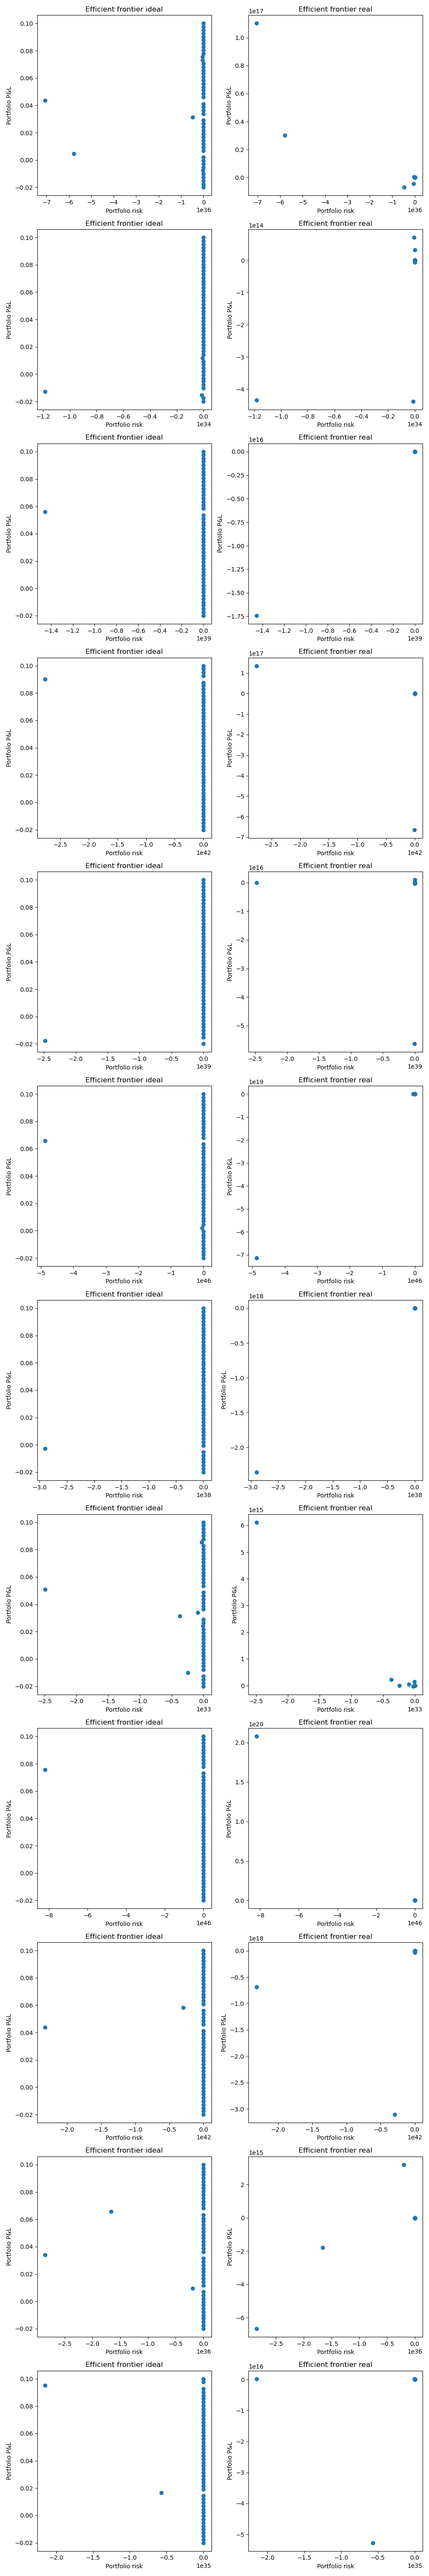
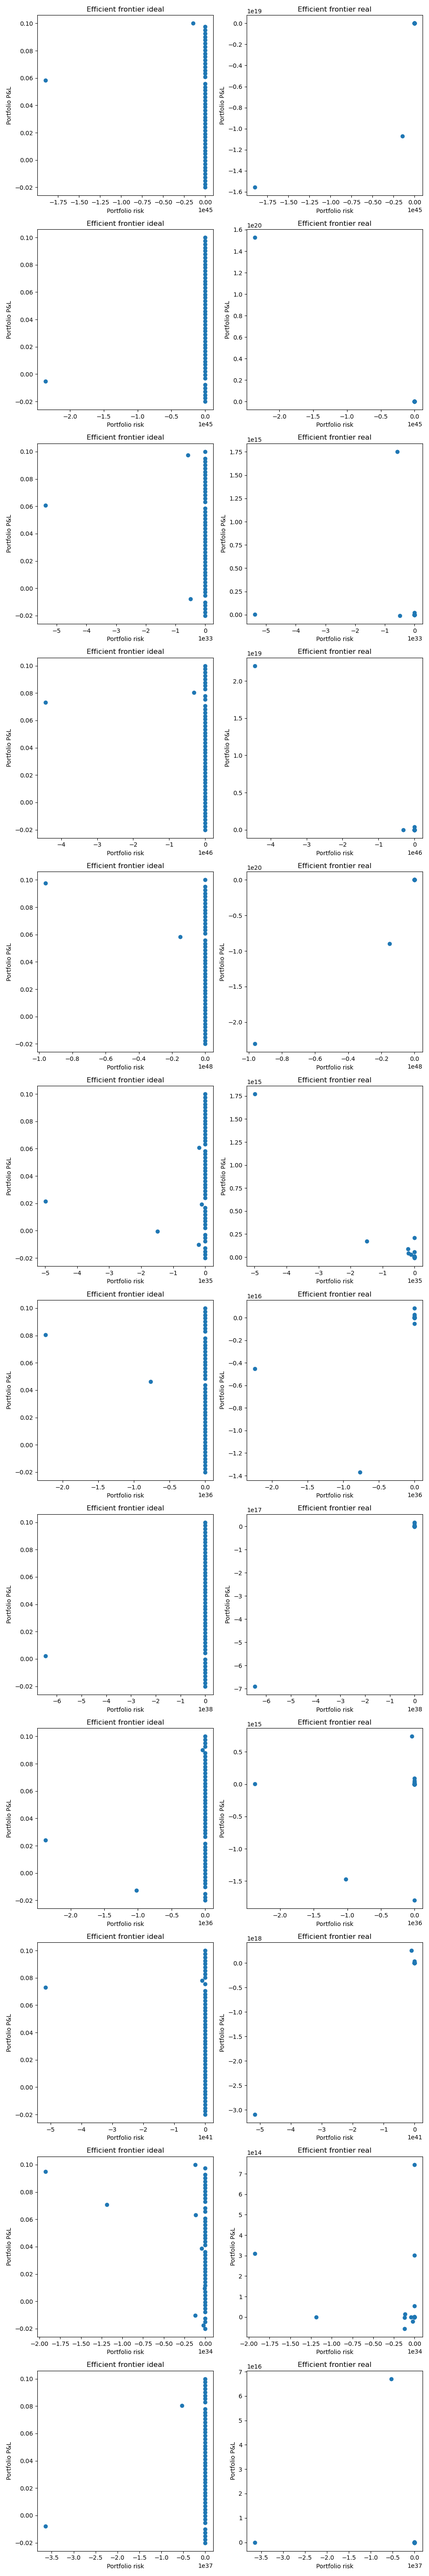
implement shuffle softmax and optimise with it

diff --git a/optimisation/src/signature_trading.py b/optimisation/src/signature_trading.py
@@ -5,10 +5,14 @@ import sympy as sym
 import mogptk
 import torch
 from .transformations import *
-
+from copy import copy, deepcopy
+import time
 from .free_lie_algebra import *
 from .optimisation.signature import *
 from .helper_functions.signature_helper_functions import get_signature_weights, shift, get_signature_values
+
+from tqdm import tqdm
+get_weights_ell = copy(get_weights)
 
 # The signature trading part is from Zacharia Issa. Please see the `mean-variacne.ipynb` file for detailed explanation.
 # This module merges the code into several classes and also integrate the Gaussian Process with Zach's code.
@@ -64,16 +68,57 @@ class _transformation:
 
         self.f = lambda x: shift(x, dim, int(_transformations["LeadLag"] + _transformations["HoffLeadLag"]), int(_transformations["AddTime"]))
 
+
+def shuffle_power(ell, power):
+    """
+    Shuffle product of a linear functional with itself power times
+
+    :param ell:     Linear functional
+    :param power:   Power to shuffle to
+    :return:        Shuffled linear functional
+    """
+    res = deepcopy(ell)
+    for _ in range(power - 1):
+        # print(type(res))
+        res = shuffleProduct(res, ell)
+    return res
+
+def shuffle_softmax(ells, truncate=5):
+    """
+    Shuffle product of a linear functional with itself truncated times
+
+    :param ell:     Linear functional
+    :param truncate: Number of times to shuffle
+    :return:        Shuffled linear functional
+    """
+    if isinstance(ells, list):
+        ells_ = []
+        for ell in ells:
+            res = ell
+            for i in range(2, truncate + 1):
+                # print(type(res))
+                res += shuffle_power(res, i) *(1/np.math.factorial(i))
+            ells_.append(res)
+        return ells_
+    else:
+        res = ells
+        for i in range(2, truncate + 1):
+            # print(type(res))
+            res += shuffle_power(res, i) *(1/np.math.factorial(i))
+        return res
+
+
 class _pre_get_funcs:
-    def __init__(self,dim,n_terms,ell_coeffs):
+    def __init__(self,dim,n_terms,ell_coeffs, default_truncate):
         self.dim = dim
         self.n_terms = n_terms
         self.ell_coeffs = ell_coeffs
+        self.truncate = default_truncate
 
     # Set the various functions used in the optimisation
     def set_signature_variance_func(self,ells, esig, shift):
         # Lambdify optimising functional
-        variance_polynomial_ = portfolio_variance(ells, esig, shift)
+        variance_polynomial_ = portfolio_variance(shuffle_softmax(ells, self.truncate), esig, shift)
         variance_polynomial  = sym.lambdify([self.ell_coeffs], variance_polynomial_)
 
         @wrapper_factory(N_assets=self.dim, n_terms=self.n_terms)
@@ -84,7 +129,7 @@ class _pre_get_funcs:
 
     def set_signature_return_func(self,ells, esig, shift):
 
-        return_polynomial_ = portfolio_return(ells, esig, shift)
+        return_polynomial_ = portfolio_return(shuffle_softmax(ells, self.truncate), esig, shift)
         return_polynomial  = sym.lambdify([self.ell_coeffs], return_polynomial_)
 
         @wrapper_factory(N_assets=self.dim, n_terms=self.n_terms)
@@ -95,7 +140,7 @@ class _pre_get_funcs:
 
     def set_signature_weight_sum_func(self,ells, esig):
 
-        weight_sum_polynomial_= sum_weights(ells, esig)
+        weight_sum_polynomial_= sum_weights(shuffle_softmax(ells, self.truncate), esig)
         weight_sum_polynomial = sym.lambdify([self.ell_coeffs], weight_sum_polynomial_)
 
         @wrapper_factory(N_assets=self.dim, n_terms=self.n_terms)
@@ -106,7 +151,7 @@ class _pre_get_funcs:
 
     def set_signature_individual_weight_func(self,ells, esig):
         # Individual weight constraints are a little tougher, we need to extract each \ell_i
-        individual_weights_polynomial_ = get_weights(ells, esig)
+        individual_weights_polynomial_ = get_weights(shuffle_softmax(ells, self.truncate), esig)
         individual_weights_polynomial  = sym.lambdify([self.ell_coeffs], individual_weights_polynomial_)
 
         @wrapper_factory(N_assets=self.dim, n_terms=self.n_terms)
@@ -114,11 +159,23 @@ class _pre_get_funcs:
             return individual_weights_polynomial(a)
 
         return individual_weights_function
+    
+
 
 class _get_funcs:
-    def __init__(self,dim,level,ES_computer,transformation=None,*o,**kwarg):
+    def __init__(self,dim,level,ES_computer,truncate,transformation=None,*o,**kwarg):
         ell_coeffs  = [make_ell_coeffs(dim, level, "^" + str(i+1)) for i in range(dim)]
+        # print([i * c for i,c in enumerate(ell_coeffs)])
+        # print(ell_coeffs[0])
         ells        = [make_linear_functional(ell_coeff, dim, level) for ell_coeff in ell_coeffs]
+        # print(ells[0])
+        print("@@@@@@@@@@@@@@@@@@@@@@@@@@@@@@@@@@@@@")
+        # print(ells[0], type(ells[0]))
+        # shuf = shuffleProduct(ells[0], ells[0])
+        # print(shuf, type(shuf))
+        # print(shuf*(.5))
+        # print("@@@@@@@@@@@@@@@@@@@@@@@@@@@@@@@@@@@@@")
+        # ells = [shuffle_softmax(ell, 2) for ell in tqdm(ells)]
         self.n_terms     = len(ell_coeffs[0])
         self.transformation = transformation
         if transformation:
@@ -127,14 +184,18 @@ class _get_funcs:
             self.shift = lambda i: i+1
 # Build the expected signature (from data, for now). normalise prices to start at 1
         esig    = ES_computer(2*(level+1),*o,**kwarg)
+        print("sigs")
         esig_ll = ES_computer(2*(level+1),*o,**kwarg,transformation=transformation)
+        print("SIGS")
         
 
-        _get_funcs = _pre_get_funcs(dim,self.n_terms,ell_coeffs)
+        _get_funcs = _pre_get_funcs(dim,self.n_terms,ell_coeffs, truncate)
+        print("GET FUNCS")
         variance_function           = _get_funcs.set_signature_variance_func(ells, esig_ll, self.shift)
         return_function             = _get_funcs.set_signature_return_func(ells, esig_ll, self.shift)
         weight_sum_function         = _get_funcs.set_signature_weight_sum_func(ells, esig)
         individual_weights_function = _get_funcs.set_signature_individual_weight_func(ells, esig)
+        print("GOT FUNCS")
         self.funcs    = [variance_function, return_function, weight_sum_function, individual_weights_function]
 
 class ExpectedSignature():
@@ -143,6 +204,31 @@ class ExpectedSignature():
 
     def ExpectedSignature(self,T1=0,T2=1,transformation=None):
         pass
+
+
+class OriginalSignature(ExpectedSignature):
+    def __init__(self, data):
+        self.data = data
+
+    def _get_paths(self):
+        self.paths = np.expand_dims(self.data.to_numpy(), 0)
+
+    def ExpectedSignature(self,level,transformation=None):
+        """
+        Arguments:
+        -----------------
+        transformation=None: signature_trading._transformation
+            if specified, the paths would firstly be transformed according to the transformation
+        
+        Returns:
+        -----------------
+        list
+            carries the estimated expected signature of the Gaussian Process
+        """
+        if transformation:
+            return ES(transformation.transformations(self.paths), max(level, 1))
+        else:
+            return ES(self.paths, max(level, 1))
 
 class GaussianProcessExpectedSiganture(ExpectedSignature):
     """ Estimate its expected signature from a trained Gaussian Process Model.
@@ -247,7 +333,7 @@ class SignatureTrading:
     get_weights(self,price,interval=(0.05,0.15)):
         compute the optimized sig-weights of each assets
     """
-    def __init__(self,data,es:ExpectedSignature,level=2):
+    def __init__(self,data,es:ExpectedSignature,sig:ExpectedSignature,level=2, truncate=5):
         self.data = data
 
         self.es = es
@@ -256,9 +342,12 @@ class SignatureTrading:
         self.ellstars = None
         self.count = 0
         self.level = level
+        self.truncate = truncate
+        self.sig = sig
 
     def _get_funcs(self,transformation:_transformation=None):
-        self.funcs = _get_funcs(self.es.dim,self.level,self.es.ExpectedSignature,transformation=transformation)
+        self.funcs = _get_funcs(self.es.dim,self.level,self.es.ExpectedSignature,self.truncate,transformation=transformation)
+        self.funcs2 = _get_funcs(self.es.dim,self.level,self.sig.ExpectedSignature,self.truncate, transformation=transformation)
 
     def _get_coeffs(self,interval=(0.05,0.15)):
         """
@@ -282,7 +371,7 @@ class SignatureTrading:
             weight_lb_cons   = [{"type": "ineq", "fun": lambda w, ind=i: individual_weights_function(w)[ind]} for i in range(N)]
             weight_ub_cons   = [{"type": "ineq", "fun": lambda w, ind=i: 1. - individual_weights_function(w)[ind]} for i in range(N)]
 
-            for pnl in expected_pnls:
+            for pnl in tqdm(expected_pnls):
                 w0 = np.ones((N, n_terms), dtype=np.float64)/(N*n_terms)
 
                 pnl_con  = [{'type': 'eq', 'fun': lambda w: return_function(w) - pnl}]
@@ -311,6 +400,7 @@ class SignatureTrading:
         else:
             index = np.argmin(sig_var)
             self.ellstars = ellstars[index]
+            print("Warning: No expected return in the range, the lowest variance is chosen.")
             return sig_pnl,sig_var
         
     # consider using signatory for concatenating signatures
@@ -333,9 +423,32 @@ class SignatureTrading:
         else:
             self.normed_price = np.concatenate((self.normed_price,price.reshape(1,-1)/self.es.train_mean))
         self.count += 1
-        signatures_ = get_signature_values(self.normed_price[np.newaxis, :, :], self.es.level)
-        es_weights = get_signature_weights(self.ellstars,signatures_, self.es.dim, self.funcs.n_terms)
-        return es_weights
+        signatures_ = get_signature_values(self.normed_price[np.newaxis, :, :], self.level)
+        # es_weights = get_signature_weights(self.ellstars,signatures_, self.es.dim, self.funcs.n_terms)
+        # ell_coeffs = make_ell_coeffs(self.es.dim, self.level)
+        # ell_coeffs  = [make_ell_coeffs(self.es.dim, self.level, "^" + str(i+1)) for i in range(self.es.dim)]
+        # # print(len(ell_coeffs), len(self.ellstars))
+        # print("AAAAAAAAAAAAAAAAAAAAAAAAAAAAAAAAAAAAAAAAAAAA")
+        # # ell_coeffs2 = [self.ellstars[i] * ell_coeffs[i] for i in range(len(ell_coeffs))]
+        # ells2 = [make_linear_functional(ell_coeff, self.es.dim, self.level) for ell_coeff in ell_coeffs]
+        # ells3 = [shuffle_softmax(ell, self.truncate) for ell in ells2]
+        # # print(len(ells3))
+        # print(len(self.ellstars))
+        # individual_weights_polynomial_ = get_weights_ell(shuffle_softmax(ells3, self.truncate), signatures_)
+        # individual_weights_polynomial  = sym.lambdify([ell_coeffs], individual_weights_polynomial_)
+        print("bweioafuiowafiouwafniowaf")
+        # @wrapper_factory(N_assets=self.es.dim, n_terms=self.es.n_terms)
+        # def individual_weights_function(a):
+        #     return individual_weights_polynomial(a)
+
+        # print(type(individual_weights_function(self.ellstars)))
+        f = self.funcs.funcs[3]
+        f2 = self.funcs2.funcs[3]
+        print("ionfqenweioaioaneaiofnwafnio")
+        # time.sleep(.1)
+        print(f(self.ellstars))
+        print("real:")
+        return f2(self.ellstars)
     
 def trading_strategies(capital,weights,price,regularisation="ReLU"):
     """ Compute the number of shares to hold for each assets.

diff --git a/optimisation/sig_trading_test.py b/optimisation/sig_trading_test.py
@@ -1,0 +1,92 @@
+from src.signature_trading import SignatureTrading, GaussianProcessExpectedSiganture, _transformation, OriginalSignature
+# from src.optimisation.signature import *
+from collections import OrderedDict
+import time
+import signatory
+import mogptk
+import numpy as np
+import torch
+import pandas as pd
+import warnings
+
+warnings.simplefilter("ignore")
+
+device = torch.device("cuda")
+
+if torch.cuda.is_available():
+   mogptk.use_gpu(0)
+
+dim = 2
+level = 2
+softmax_truncate = 2
+
+training_size = 0.95
+Q = dim
+init_method = 'BNSE'
+method = 'Adam'
+
+
+
+# stocks
+df      = pd.read_csv('./stocks.csv', index_col=0)
+names   = df.columns[:dim].to_list()
+# format needs to be specified as default parsing is American format
+df.index = pd.to_datetime(df.index, format="%d/%m/%y")
+
+df2 = df[names].loc[(df.index > pd.Timestamp('2017-01-01')) & (df.index < pd.Timestamp('2018-01-01'))]
+df2.loc[:,'time'] = np.linspace(0, 1, len(df2))
+
+gpm_dataset = mogptk.LoadDataFrame(df2, x_col='time', y_col=names)
+
+for channel in gpm_dataset:
+    # normalize the path and fit the normalized path by y=a*t+b_t.
+    # The train would be performed on b_t 
+    channel.transform(mogptk.TransformNormalize())
+    channel.transform(mogptk.TransformDetrend())
+for name in names:
+    # remove the data after `training_size` as test data 
+    gpm_dataset[name].remove_randomly(pct=1-training_size)
+
+# set the model and train it
+gpm = mogptk.SM_LMC(gpm_dataset, Q=Q, inference=mogptk.Exact())
+gpm.init_parameters(init_method)
+loss,error = gpm.train(method=method, lr=0.01, iters=1000, verbose=False, plot=False)
+
+# print(type(gpm))
+
+# class RandomPathExpectedSignautre():
+#     model_life = np.infty
+#     def _get_paths(self,n,time_step,channel):
+#         self.paths = torch.rand(n,time_step+1,channel)
+    
+#     def ExpectedSignature(self,level,transformation=None):
+#         return ES(self.paths,level)
+
+start = time.time()
+print("Started")
+transformation = _transformation(dim, 1, OrderedDict(
+                {"AddTime": True, "TranslatePaths": True, "ScalePaths": False, "LeadLag": False, "HoffLeadLag":True}))
+    
+es = GaussianProcessExpectedSiganture(gpm)
+es._get_paths(time_step=len(df2.index))
+
+# print(df2.loc[:,es.names])
+# print(df2.loc[:,es.names].to_numpy())
+# print(df2.loc[:,es.names].to_numpy().shape)
+# print(np.expand_dims(df2.loc[:,es.names].to_numpy(), 0).shape)
+sig = OriginalSignature(df2.loc[:,es.names])
+sig._get_paths()
+
+print(1)
+sig_trading = SignatureTrading(df2, es, sig, level, softmax_truncate)
+print(2)
+sig_trading._get_funcs(transformation)
+print(3)
+sig_trading._get_coeffs()
+print(4)
+weights = sig_trading.get_weights(sig_trading.data.loc[:,sig_trading.es.names].to_numpy())
+print(weights)
+print("Sum of weights:")
+print(weights.sum())
+print("TIME TAKEN")
+print(time.time()-start)

diff --git a/optimisation/mv_utils.py b/optimisation/mv_utils.py
@@ -243,7 +243,7 @@ def concatenate_a_letter_to_words(x,signature,dim,m):
     return (i,result)
 
 @jit(nopython=True,parallel=True)
-def squared_integration_functional(signature,word_operation_dict,dim,level,m,n):
+def squared_integration_functional(signature,word_operation_dict,dim,level,m,n, hoff=False):
     """ Return the coefficeints matrix of a^m_p(w)a^n_p(w) for w in W^d_m(A), in 
         (l_m \prec m) * (l_n \prec n) where  W^d_m(A) is the set of words of 
         dimension d up to length m. 
@@ -253,8 +253,12 @@ def squared_integration_functional(signature,word_operation_dict,dim,level,m,n):
         word_operation_dict: dict   a dictionary containing expression of w_i, w_j with keywords 'ij'
         m,n: int    the specific channel 
         """
-    sig_len = length_of_signature(dim,level) # length of signature at (level, dim)
-    weights = np.zeros((sig_len,sig_len)) # (l_m < m) * (l_n < n) = sum weights_ij (a^m_(w_1) a^n_(w_2))
+    if hoff:
+        sig_len = length_of_signature(dim,level) # length of signature at (level, dim)
+        weights = np.zeros((sig_len,sig_len)) # (l_m < m) * (l_n < n) = sum weights_ij (a^m_(w_1) a^n_(w_2))
+    else:
+        sig_len = length_of_signature(dim,level) # length of signature at (level, dim)
+        weights = np.zeros((sig_len,sig_len)) # (l_m < m) * (l_n < n) = sum weights_ij (a^m_(w_1) a^n_(w_2))
     for i in range(level):
         for j in range(level):
             if i+j ==0:
@@ -279,14 +283,17 @@ def get_sig_variance(signature,word_operation_dict,dim,level,hoff=False):
     """ Get the coefficeints of total variance by block maztrixs (X2_ij)_{1<= i,j <= d}
         Hence the total square of the return is a.T@X2@a, where a_p(w) is the collection 
         of coefficeints of w."""
-    sig_len = length_of_signature(dim,level)
-    weights = np.zeros((sig_len*dim,sig_len*dim))
+
     if hoff:
+        sig_len = length_of_signature(dim,level)
+        weights = np.zeros((sig_len*dim,sig_len*dim))
         for m_ind, m in enumerate(range(dim, 2*dim)):
             for n_ind, n in enumerate(range(dim, 2*dim)):
-                weights[m_ind*sig_len:(m_ind+1)*sig_len,n_ind*sig_len:(n_ind+1)*sig_len] = squared_integration_functional(signature,word_operation_dict,dim,level,m,n)
+                weights[m_ind*sig_len:(m_ind+1)*sig_len,n_ind*sig_len:(n_ind+1)*sig_len] = squared_integration_functional(signature,word_operation_dict,dim,level,m,n, hoff = True)
         return weights
     else:
+        sig_len = length_of_signature(dim,level)
+        weights = np.zeros((sig_len*dim,sig_len*dim))
         for m in range(dim):
             for n in range(dim):
                 weights[m*sig_len:(m+1)*sig_len,n*sig_len:(n+1)*sig_len] = squared_integration_functional(signature,word_operation_dict,dim,level,m,n)
